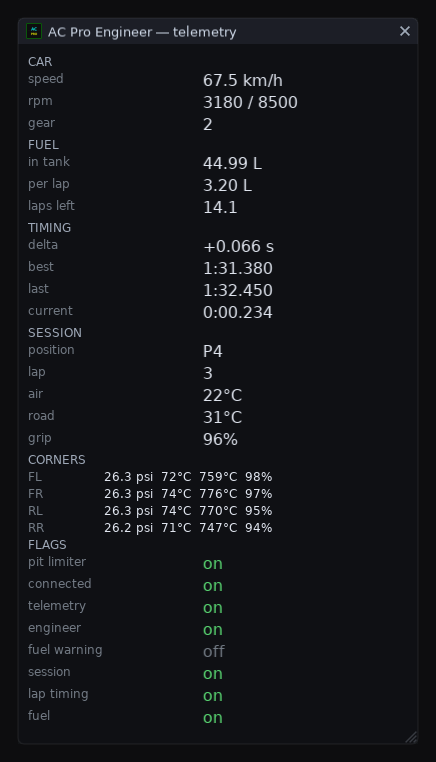
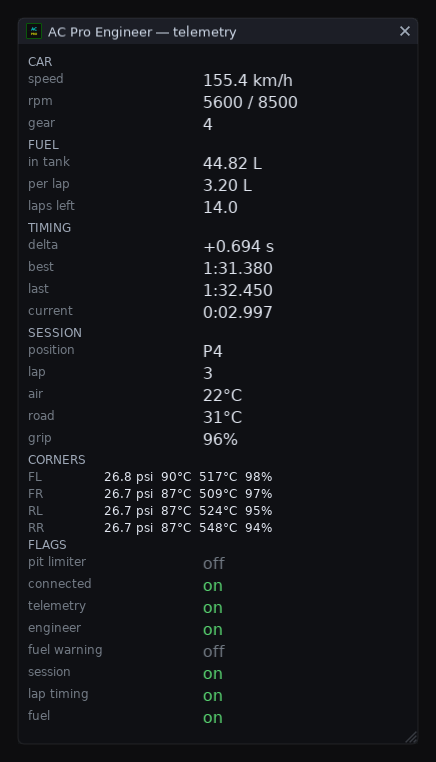
docs: show what "Waiting for AC Pro Engineer" actually looks like
The troubleshooting section for the panel's most common dead end walked
through the checks and never showed the screen. It is now the first thing
there, which also makes the difference between it and "Waiting for the
car" visible at a glance — that distinction is the whole reason those are
two screens, and a paragraph explaining it does less work than the two
pictures side by side.

`portraits.sh` grows a tenth shot for it, taken with the LÖVE harness's
new `--app-stopped`. The other three that changed differ only in the
simulated lap's numbers.

diff --git a/CHANGELOG.md b/CHANGELOG.md
@@ -104,6 +104,17 @@ them can be rebound.
   shape and one keystroke away from the same crash. Every blocking request in
   the crate is now either behind that hop or the first thing on a thread of its
   own.
+- **The screen that says nothing is working now says it loudly.** When the panel
+  cannot reach the application it has one job — say so to someone glancing at it
+  from a driving seat — and it said so in CSP's own font at a tier that cannot
+  be scaled: a few small words in the top-left corner of an otherwise empty
+  window, unchanged while the panel itself grew to fill a 4K screen. There is a
+  headline sized from the window now, the explanation under it at the panel's
+  own body size, the block centred. Four screens use it: waiting for the
+  application, waiting for the car, the mapping missing, and a frame version
+  mismatch. Five of the sentences they draw had never been translated,
+  including both halves of the mapping-missing screen — the one a Linux driver
+  reads most.
 - **The panel forgot every checkbox, and the reason was not that it failed to
   save.** `settings = stored` made the panel's live settings table *be* CSP's
   `ac.storage` proxy, so every read and write went through its metatable. A

diff --git a/apps/lua/love/README.md b/apps/lua/love/README.md
@@ -112,6 +112,7 @@ developer mode on in every picture after it.
 | `--portrait ID` | `main`, `engineer`, `telemetry`, `status` or `settings` |
 | `--app-tab PATH` | a tab inside the app, `Look/Colour` for a nested one |
 | `--app-dev` | turn the panel's own developer mode on, for the Dev tab |
+| `--app-stopped` | freeze the feed, so the panel draws what a closed application looks like |
 | `--size WxH` | the size to draw the portrait's window at |
 | `--shot NAME` | where it lands in the save directory |
 

diff --git a/README.md b/README.md
@@ -639,6 +639,8 @@ The status bar tells three states apart on purpose:
 
 ### The in-game panel says "Waiting for AC Pro Engineer"
 
+![Waiting for the application](screenshots/Overlay_Waiting.png)
+
 In order, cheapest first:
 
 1. **Is the desktop application running?** The panel draws nothing without it.
